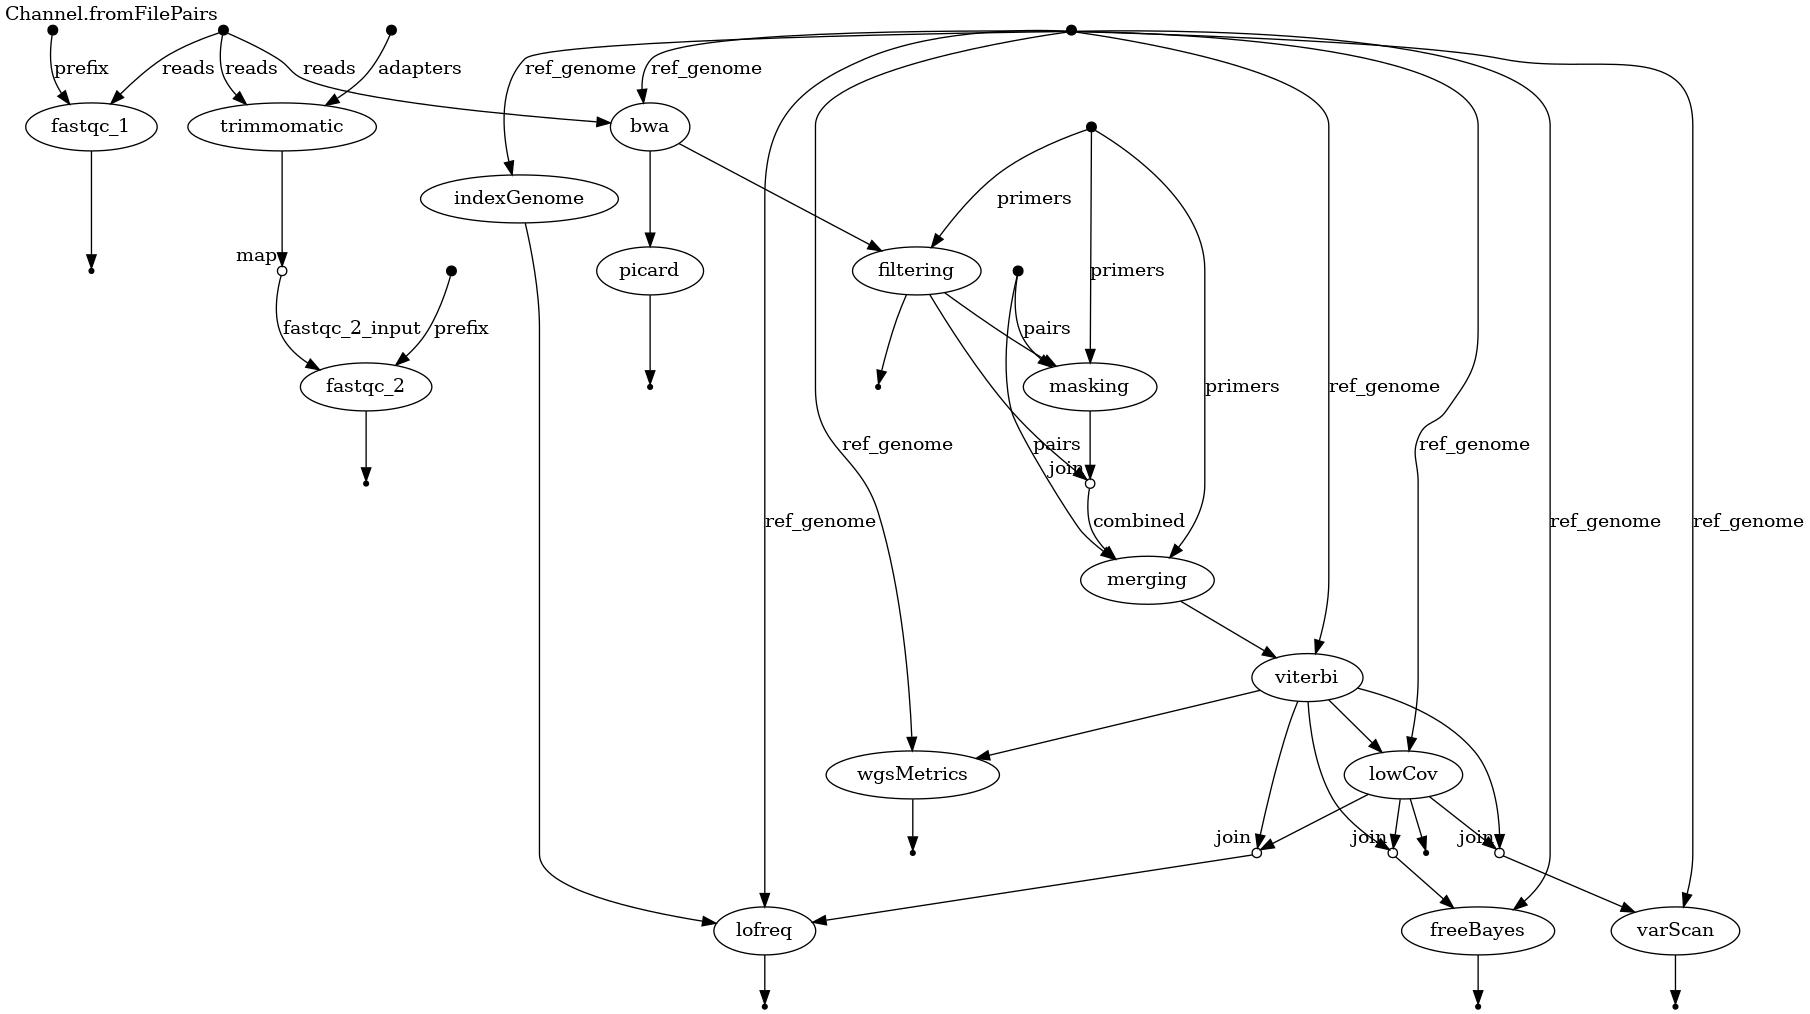
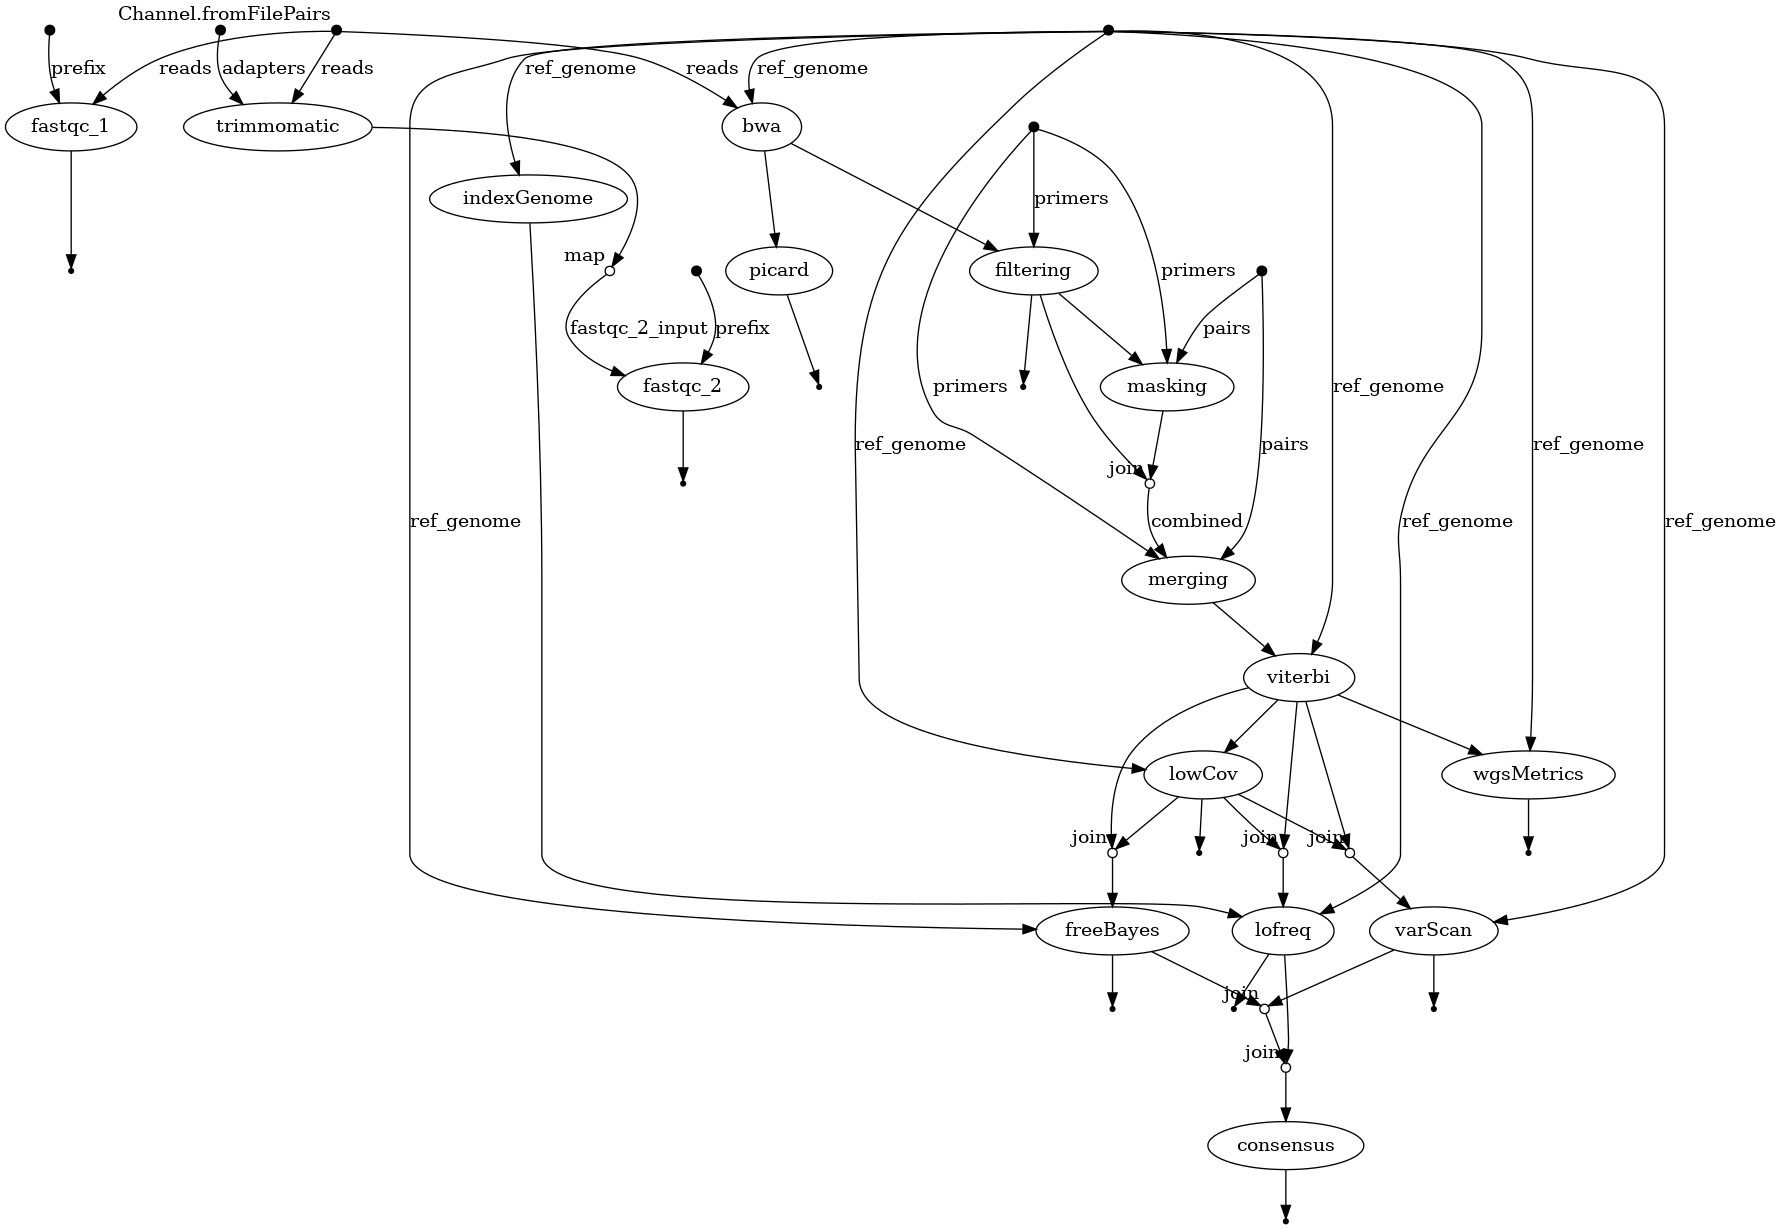
Consensus Module

diff --git a/bin/gen_consensus_seq_final.py b/bin/gen_consensus_seq_final.py
@@ -1,0 +1,12 @@
+#!/usr/bin/env python3
+
+import sys
+
+from Bio import AlignIO
+from Bio.Align import AlignInfo
+
+alignment = AlignIO.read(sys.argv[1], "fasta")
+summary_align = AlignInfo.SummaryInfo(alignment)
+with open('output_consensus.fa', 'w') as f:
+    f.write('>consensus\n')
+    f.write(str(summary_align.gap_consensus(threshold=0.6, ambiguous='X')))
